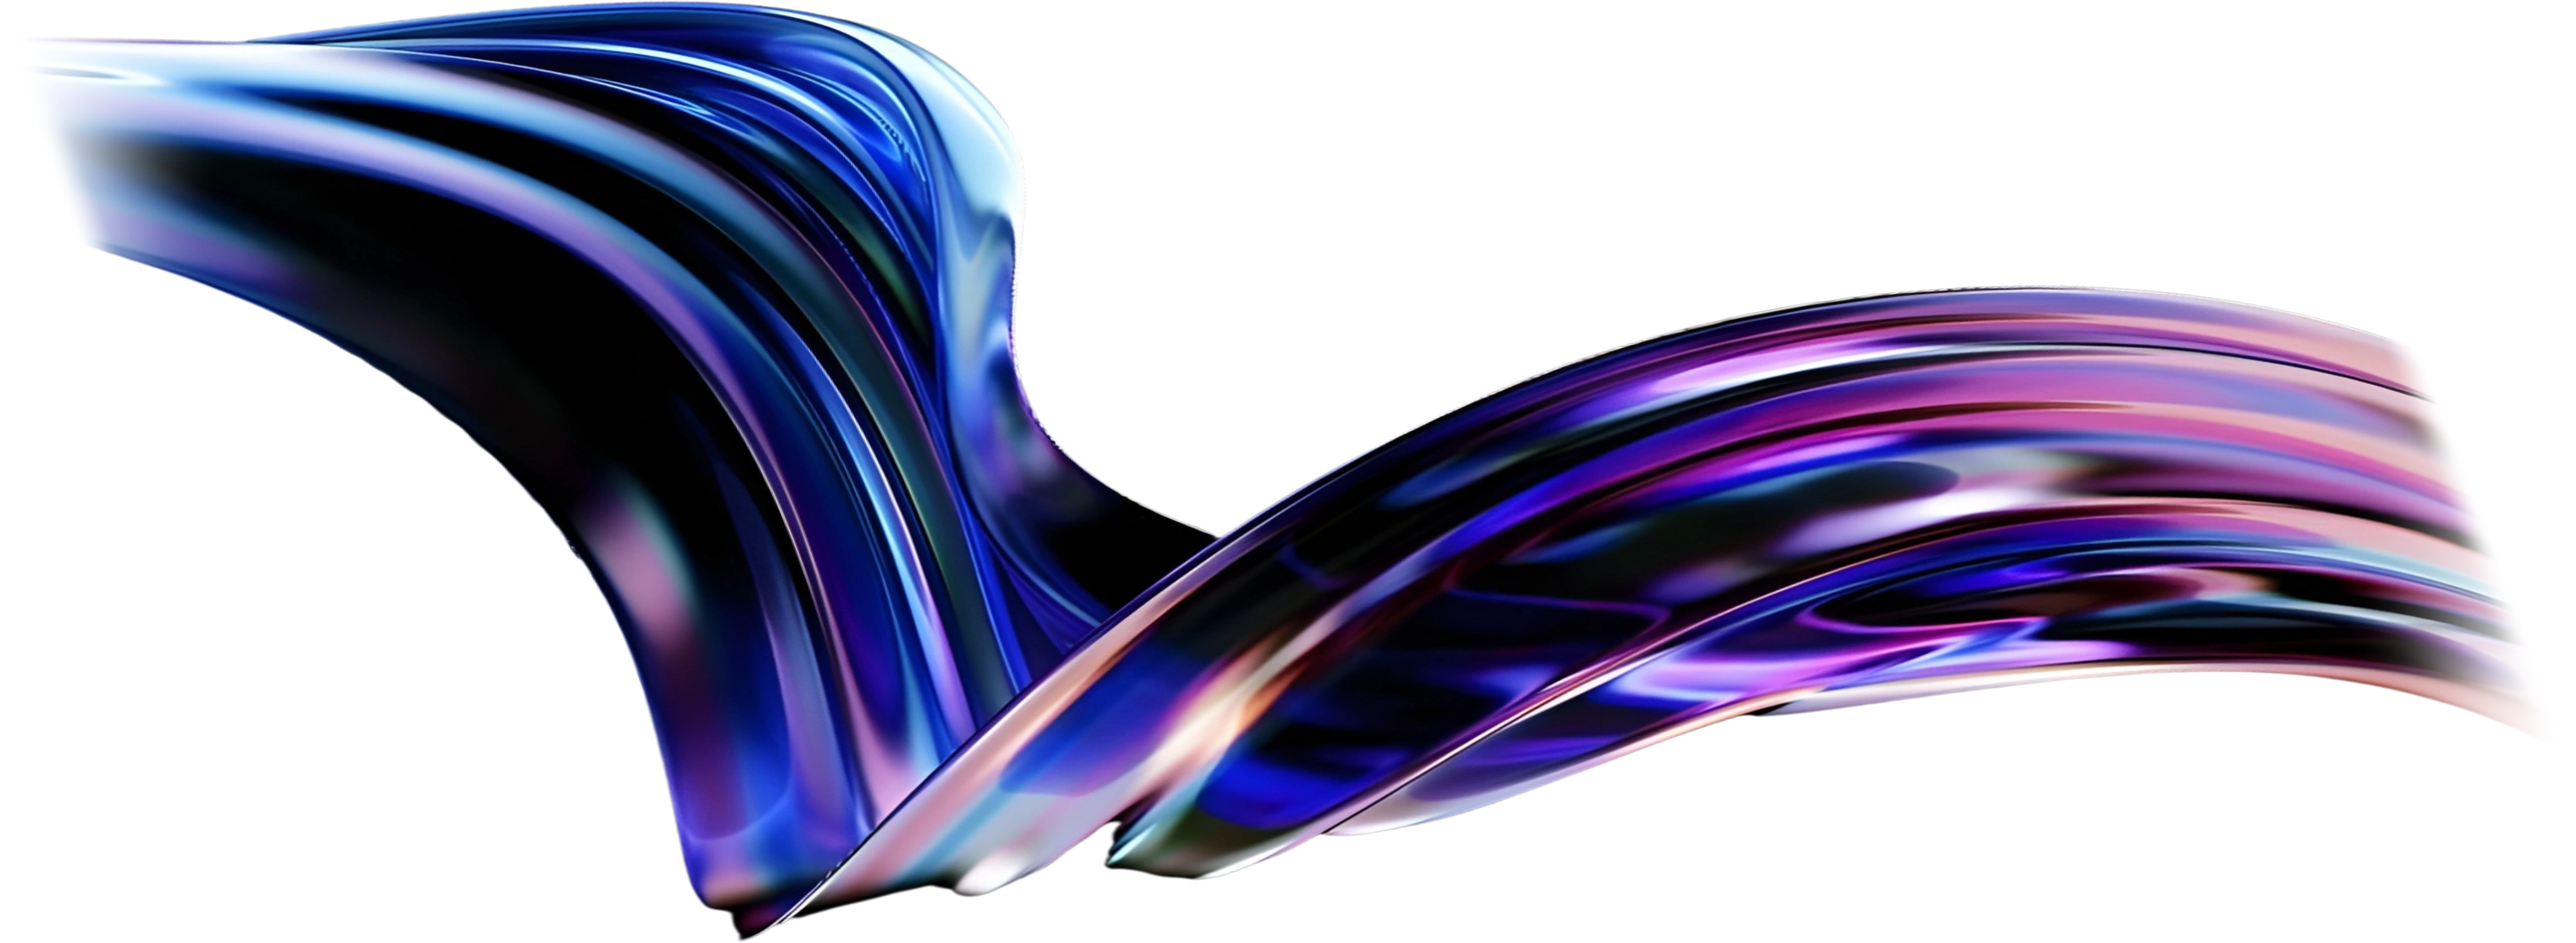
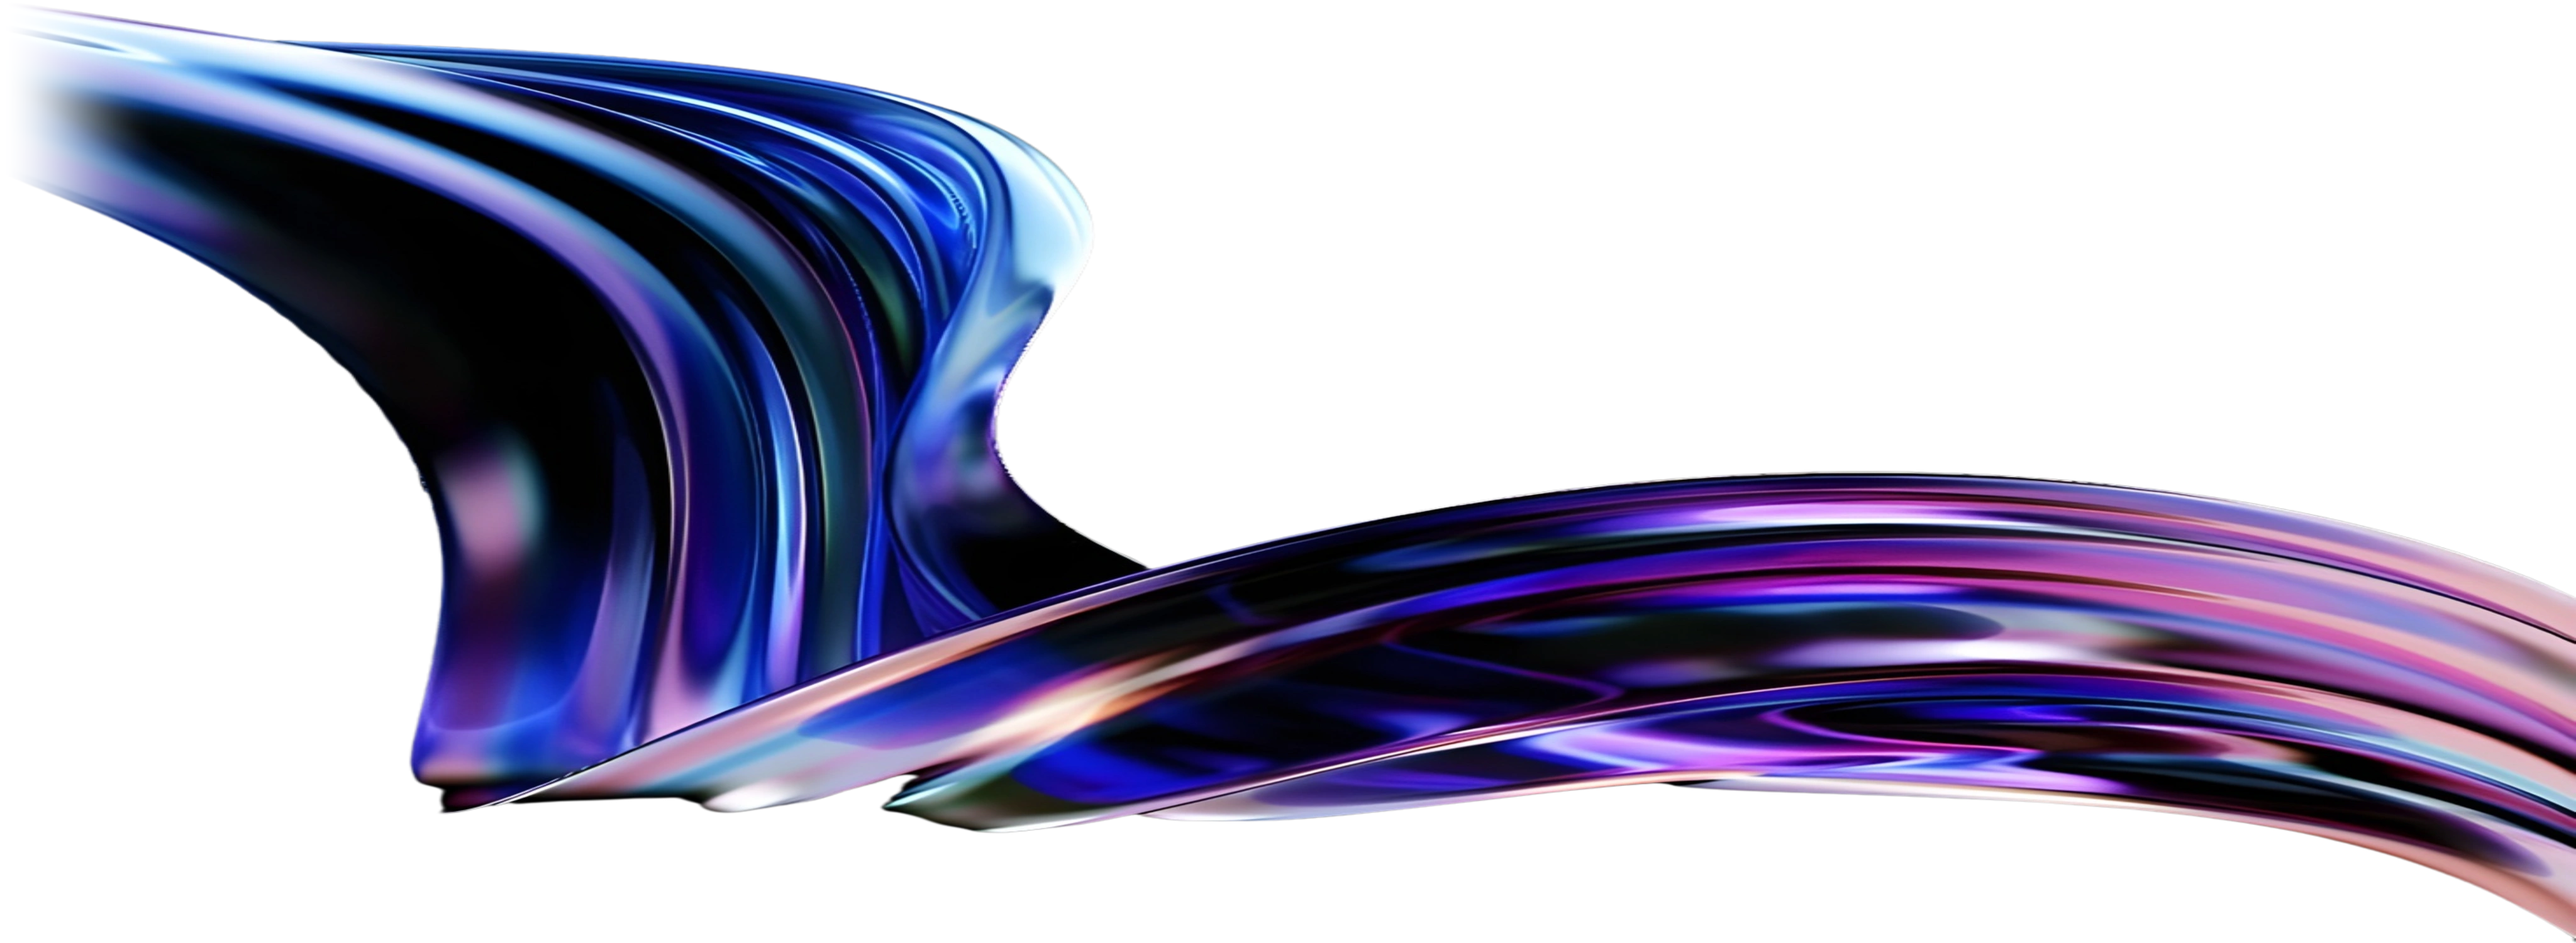
fix: ensure organizers wave ribbon makes solid contact with right screen edge without gaps

diff --git a/style.css b/style.css
@@ -837,18 +837,19 @@ body, body.desktop-view {
 
 .org-wave-horizontal {
   position: absolute;
-  left: 50%;
+  right: 0;
+  left: auto;
   top: 50%;
-  transform: translate(-50%, -50%);
+  transform: translateY(-50%);
   width: 104vw;
   max-width: none;
   height: auto;
   pointer-events: none;
   z-index: 1;
-  opacity: 0.60;
+  opacity: 0.65;
   filter: drop-shadow(0 0 50px rgba(145, 224, 253, 0.4));
-  -webkit-mask-image: linear-gradient(to right, transparent 0%, black 7%, black 93%, transparent 100%);
-  mask-image: linear-gradient(to right, transparent 0%, black 7%, black 93%, transparent 100%);
+  -webkit-mask-image: linear-gradient(to right, transparent 0%, black 7%, black 100%);
+  mask-image: linear-gradient(to right, transparent 0%, black 7%, black 100%);
 }
 
 .organizers-cards-grid {
